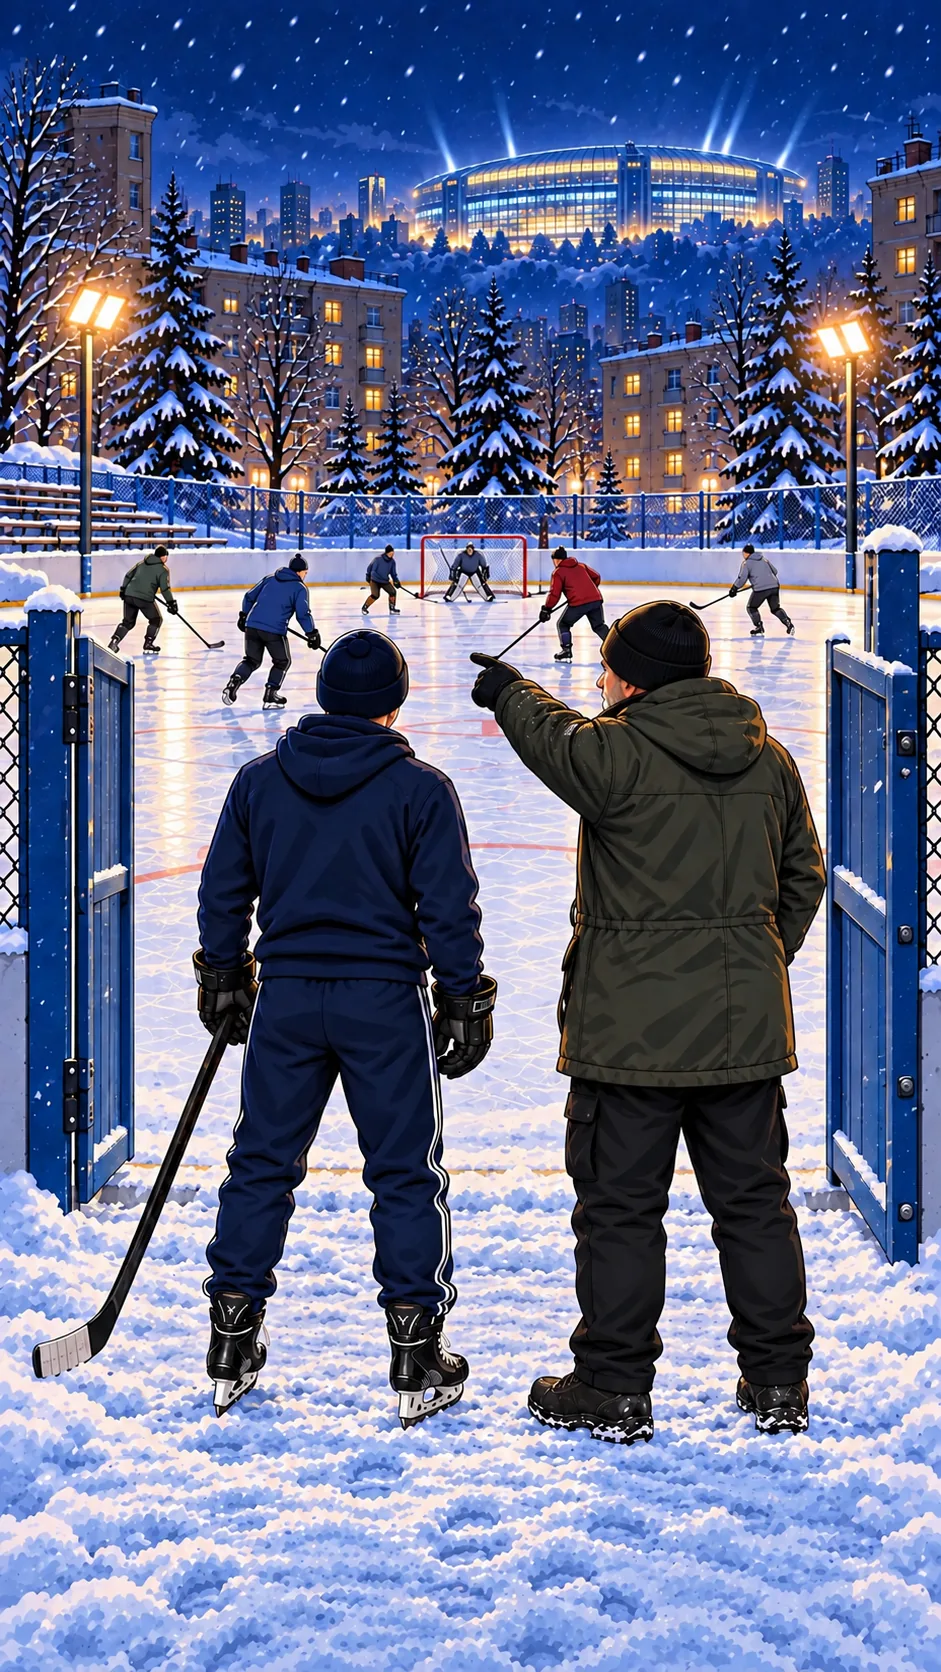
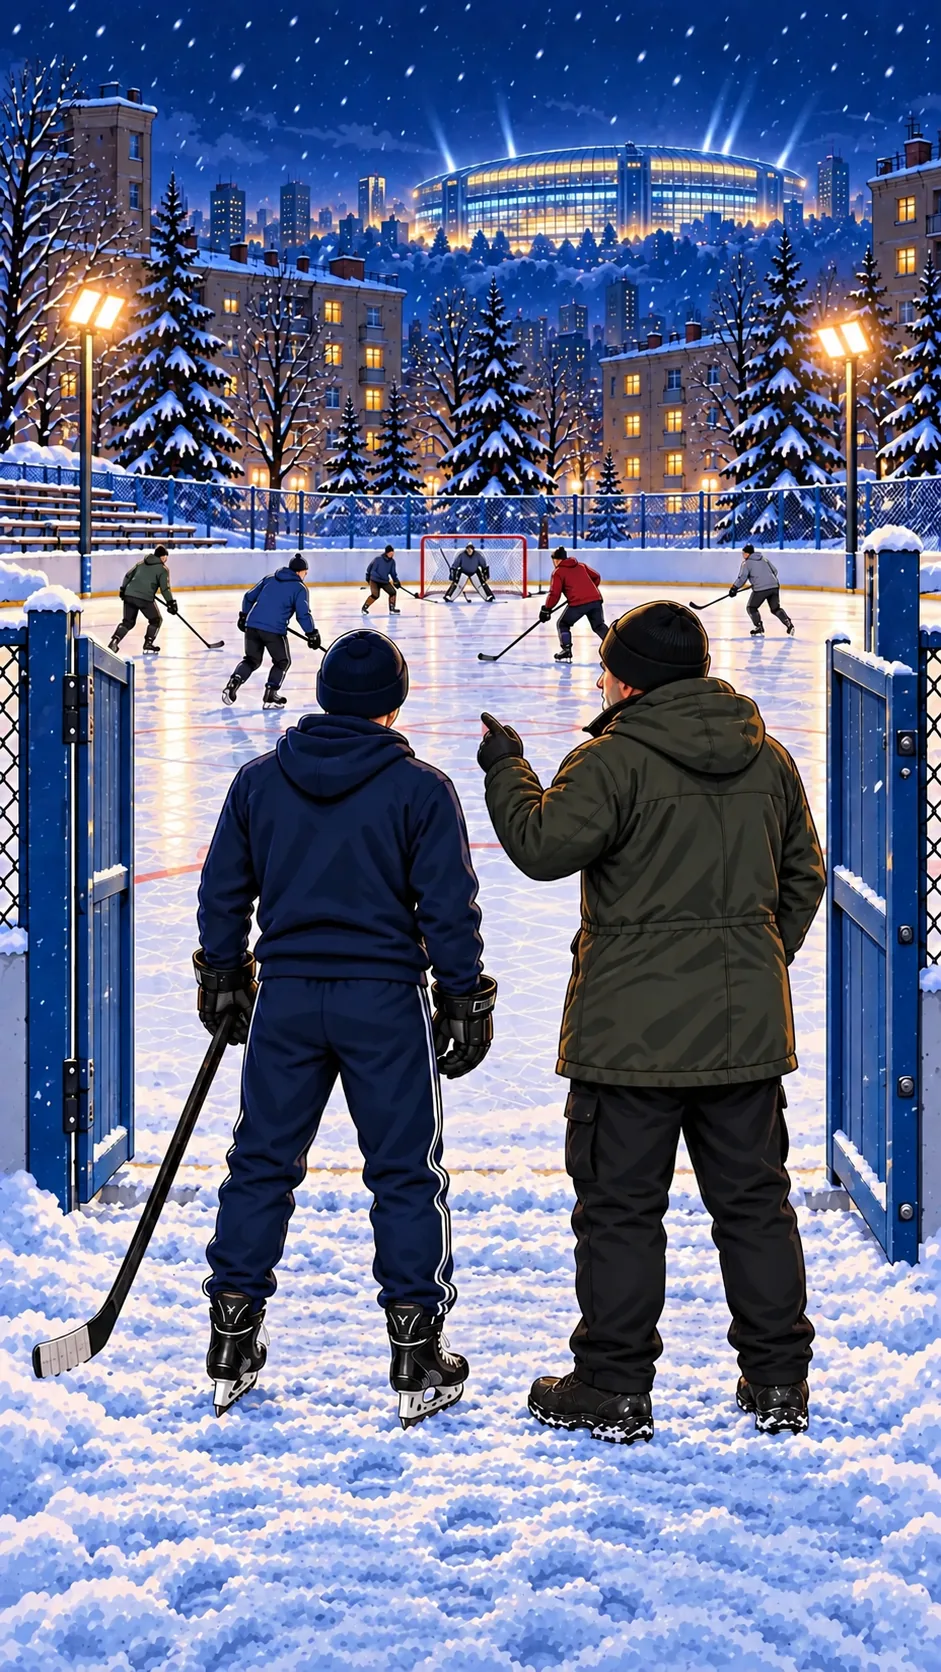
fix: regenerate proportional pointing gesture in amateur story

diff --git a/packages/web/src/onboarding/storyImageVersions.ts b/packages/web/src/onboarding/storyImageVersions.ts
@@ -29,7 +29,7 @@ export const storyImageVersions: Record<string, string> = {
   "scene-02-b.webp": "45b7b0ed09ae",
   "scene-03-b.webp": "a569fc436637",
   "scene-05-a.webp": "26e5f340ba8e",
-  "scene-05-b.webp": "036e1d4fee8f",
+  "scene-05-b.webp": "5e738e4b2ebe",
   "scene-06-a.webp": "7b1bd39846eb",
   "scene-06-b.webp": "b0bfe548dd8c",
 };

diff --git a/docs/artwork/amateur-story/README.md b/docs/artwork/amateur-story/README.md
@@ -12,3 +12,5 @@ User corrections:
 - Invitation candidate still showed face rather than turning to entrance. Regenerated from accepted stadium base; final back/head and inviting palm gesture.
 
 Public assets: packages/web/public/onboarding/amateur/. Narrative and precise text cues: packages/web/src/onboarding/amateurStory.ts. Deployment not authorized for this task.
+
+- Pointing stadium frame rejected for elongated arm. Regenerated from accepted scene-05-a only, with bent elbow close to torso and proportional glove; original rejected frame was not used as input.
